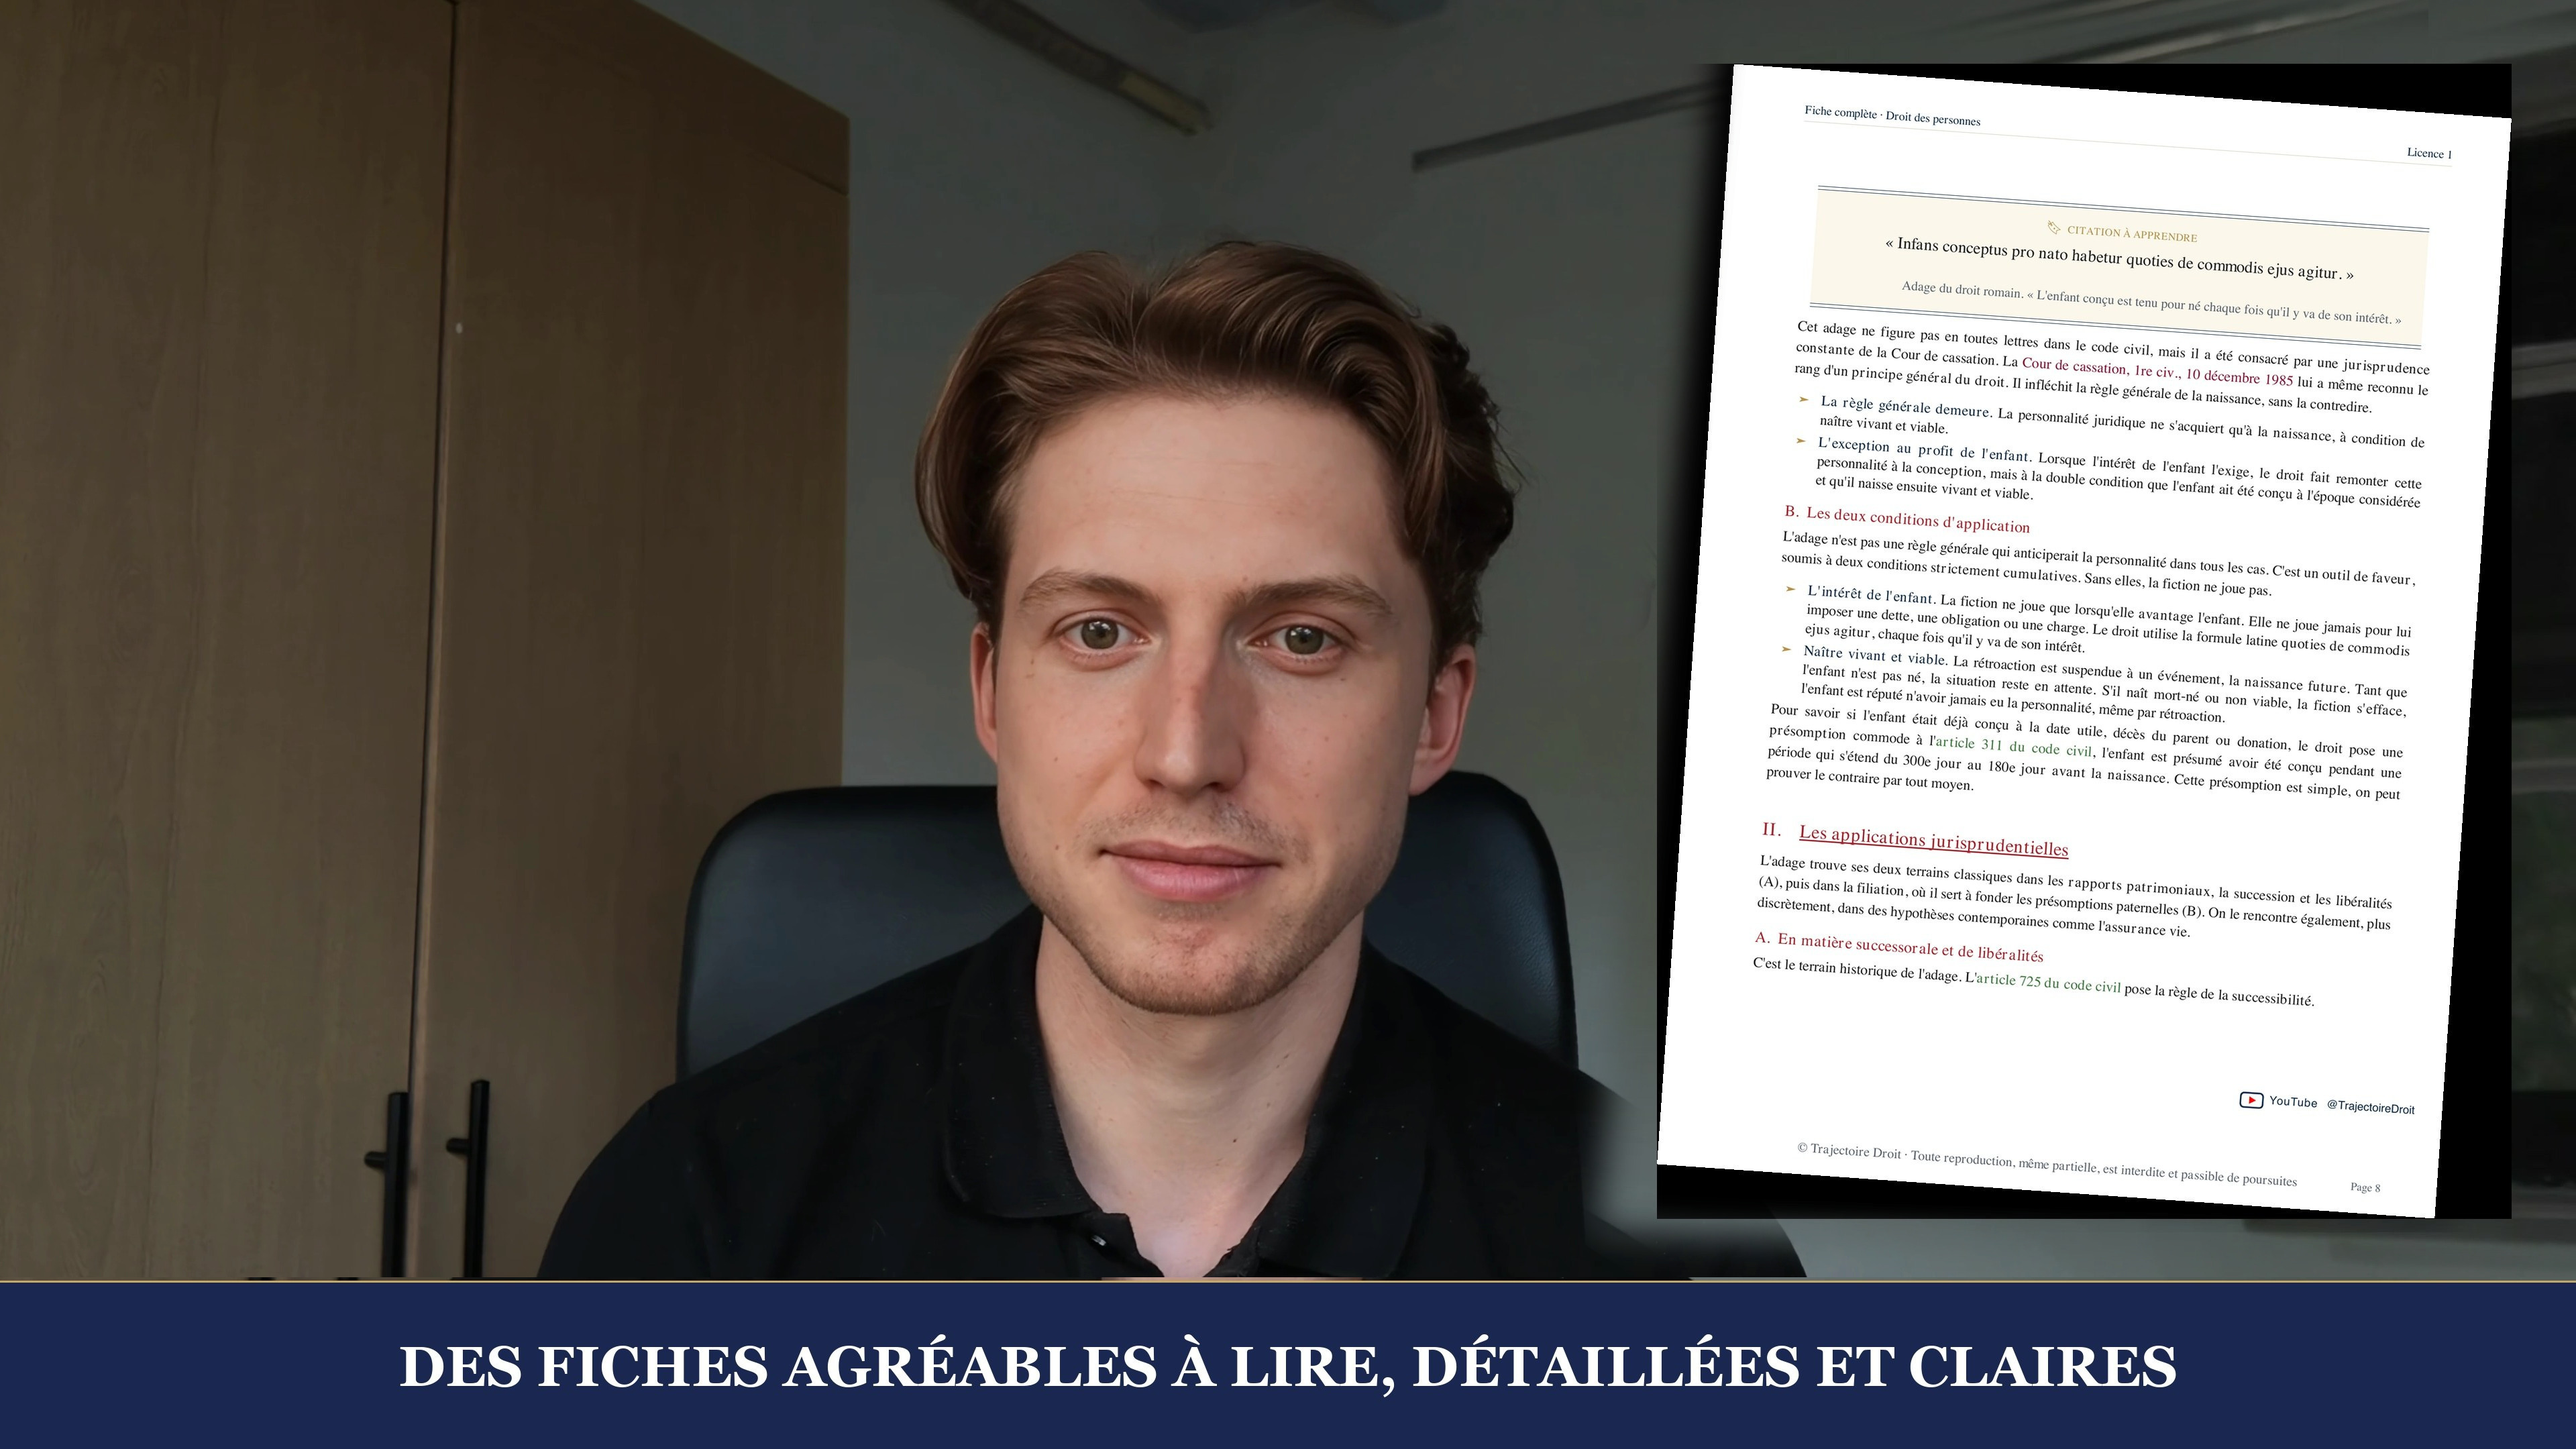
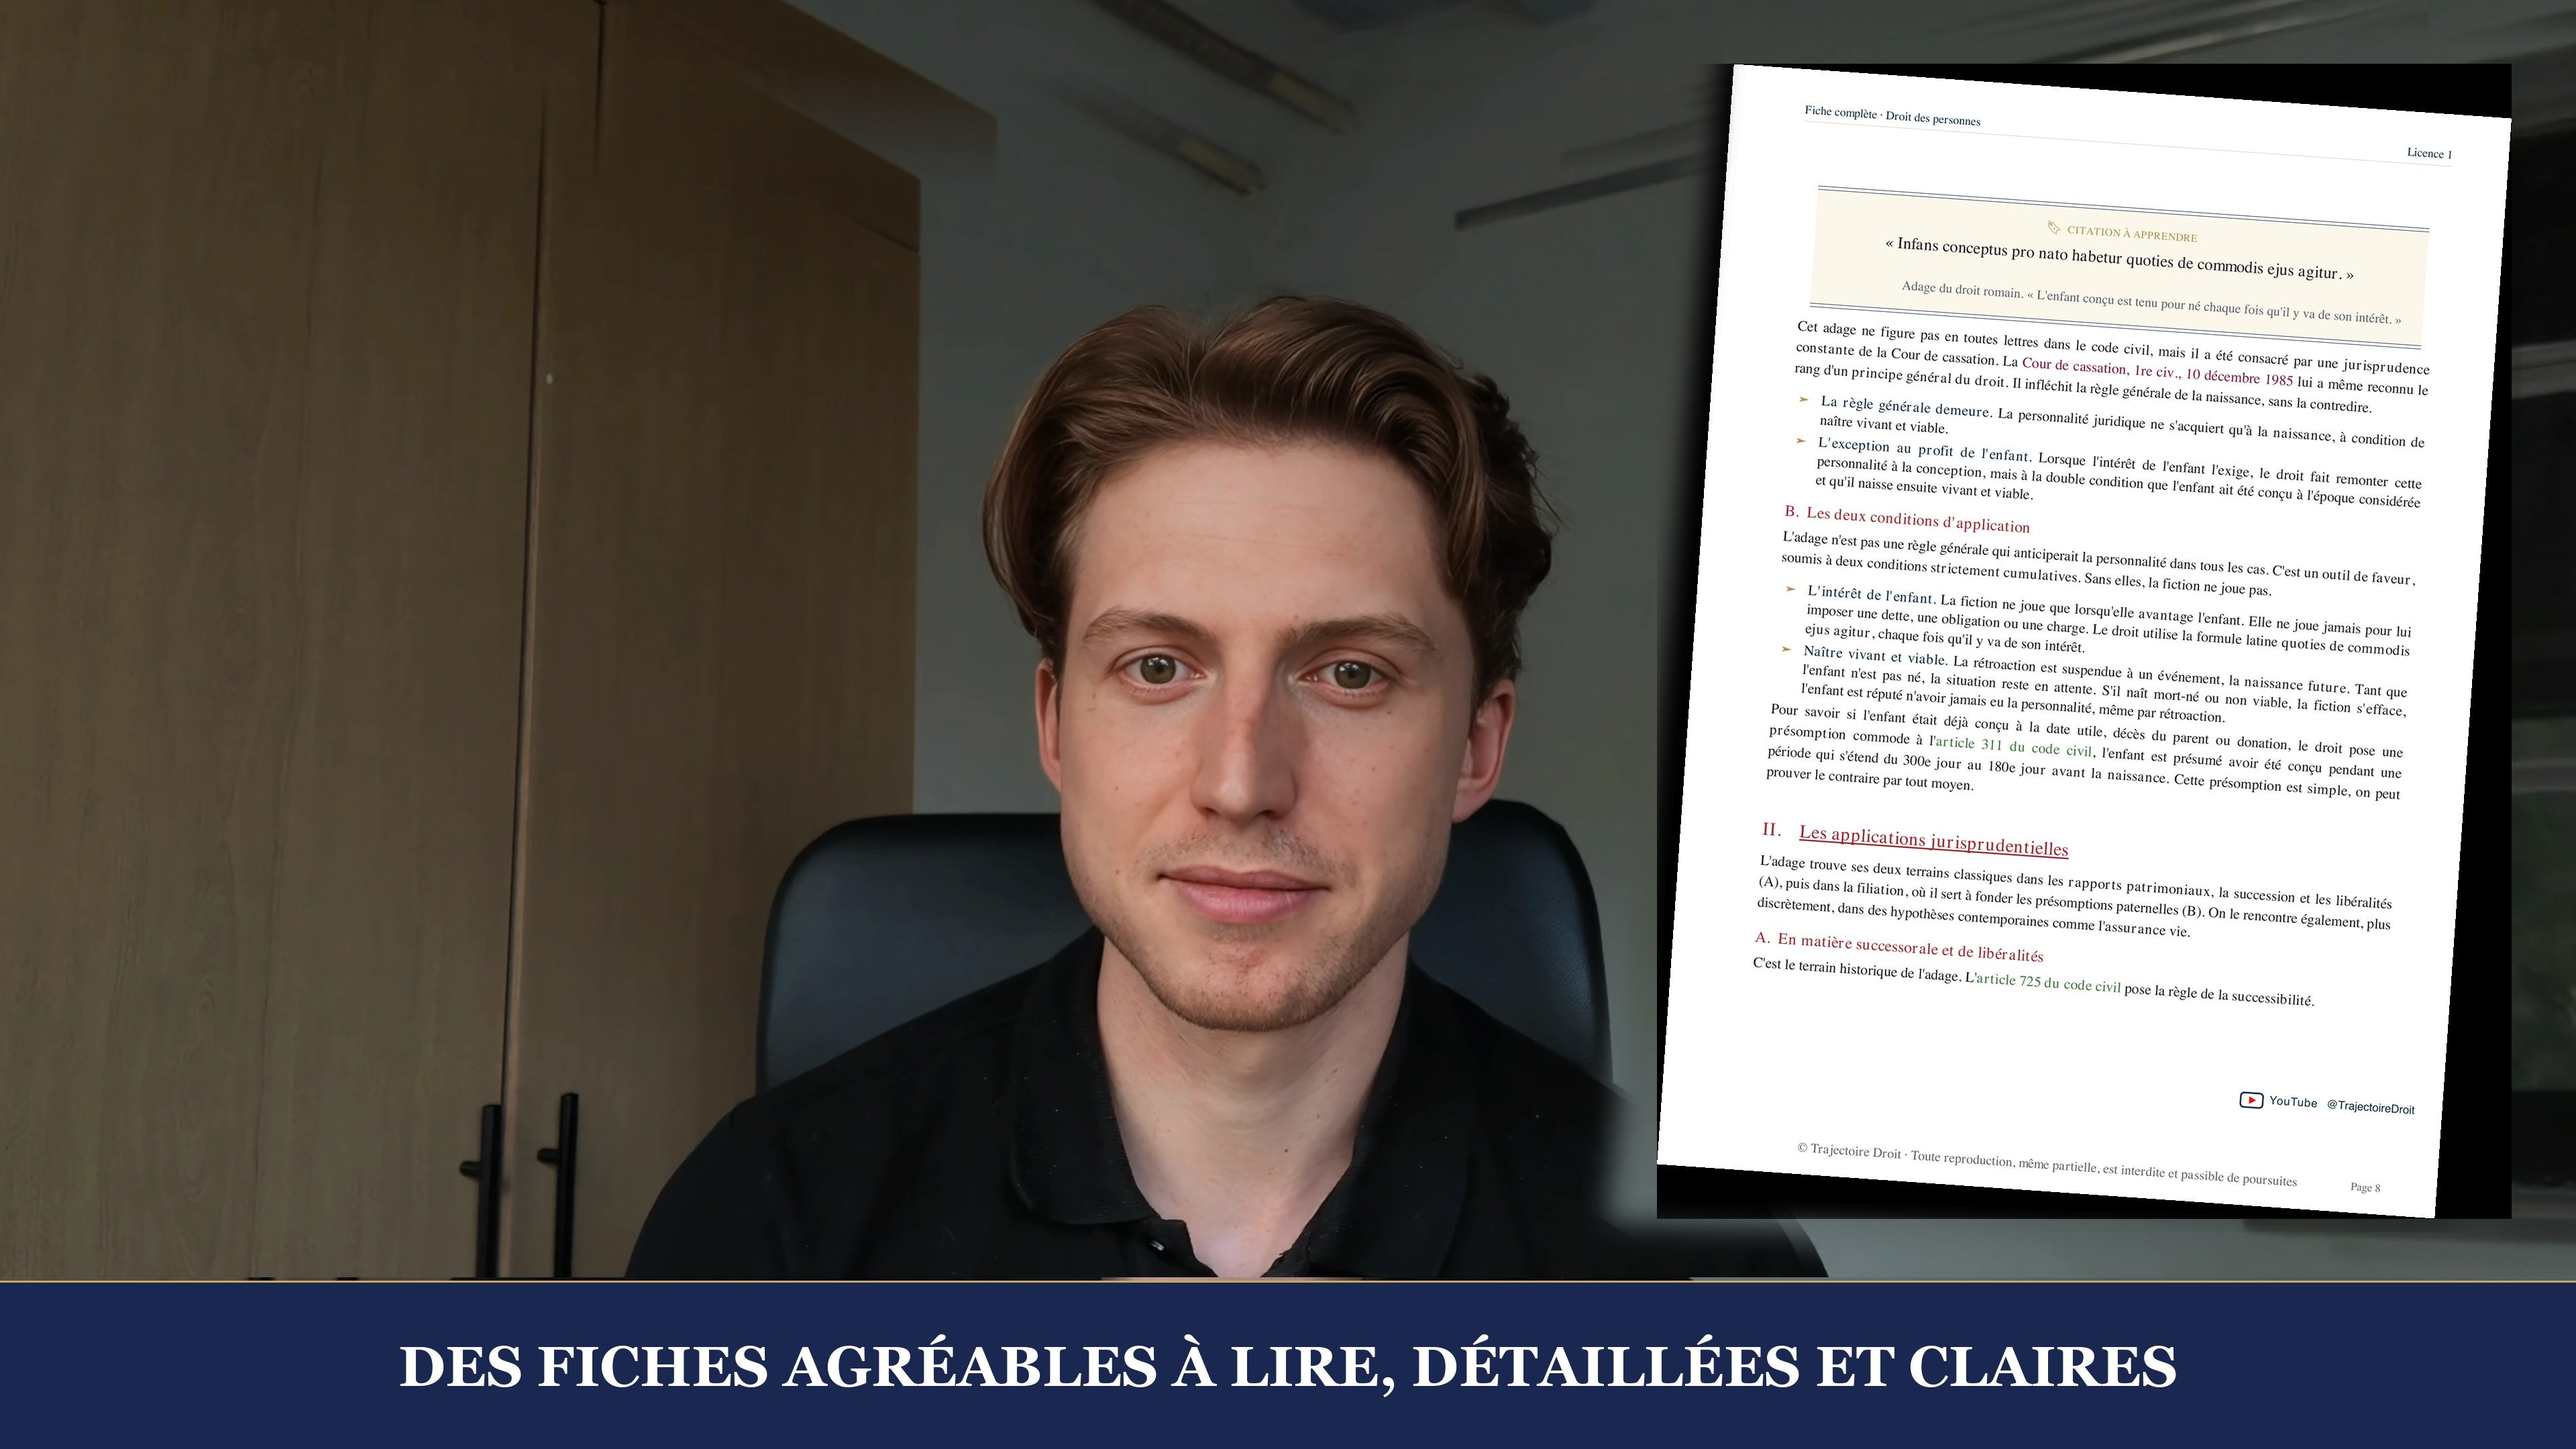
Dézoomer légèrement la miniature d'accueil

diff --git a/index.html b/index.html
@@ -358,7 +358,7 @@
                 <video class="fiche-preview__video"
                        controls
                        preload="metadata"
-                       poster="assets/hero-video-produits-poster.webp?v=da0816b4">
+                       poster="assets/hero-video-produits-poster.webp?v=46426dcd">
                   <source src="https://pub-45b53167be7548aca62650d34a771b47.r2.dev/tjd/video/vue-ensemble-produits.mp4" type="video/mp4">
                 </video>
               </div>
